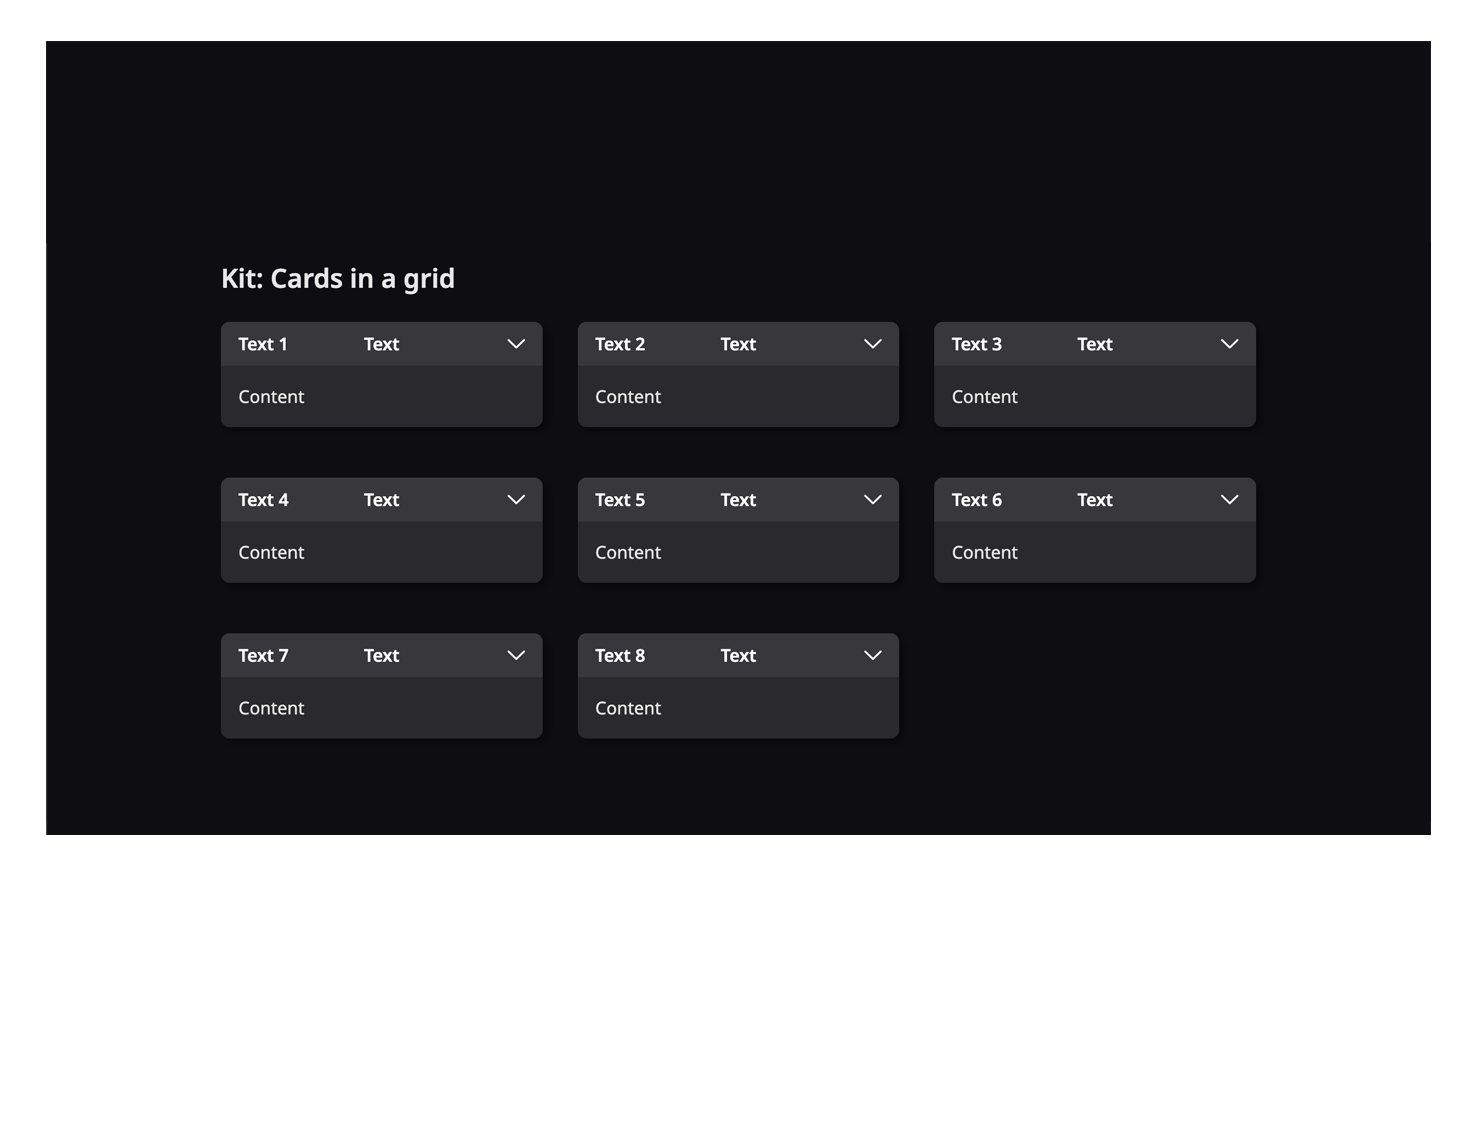
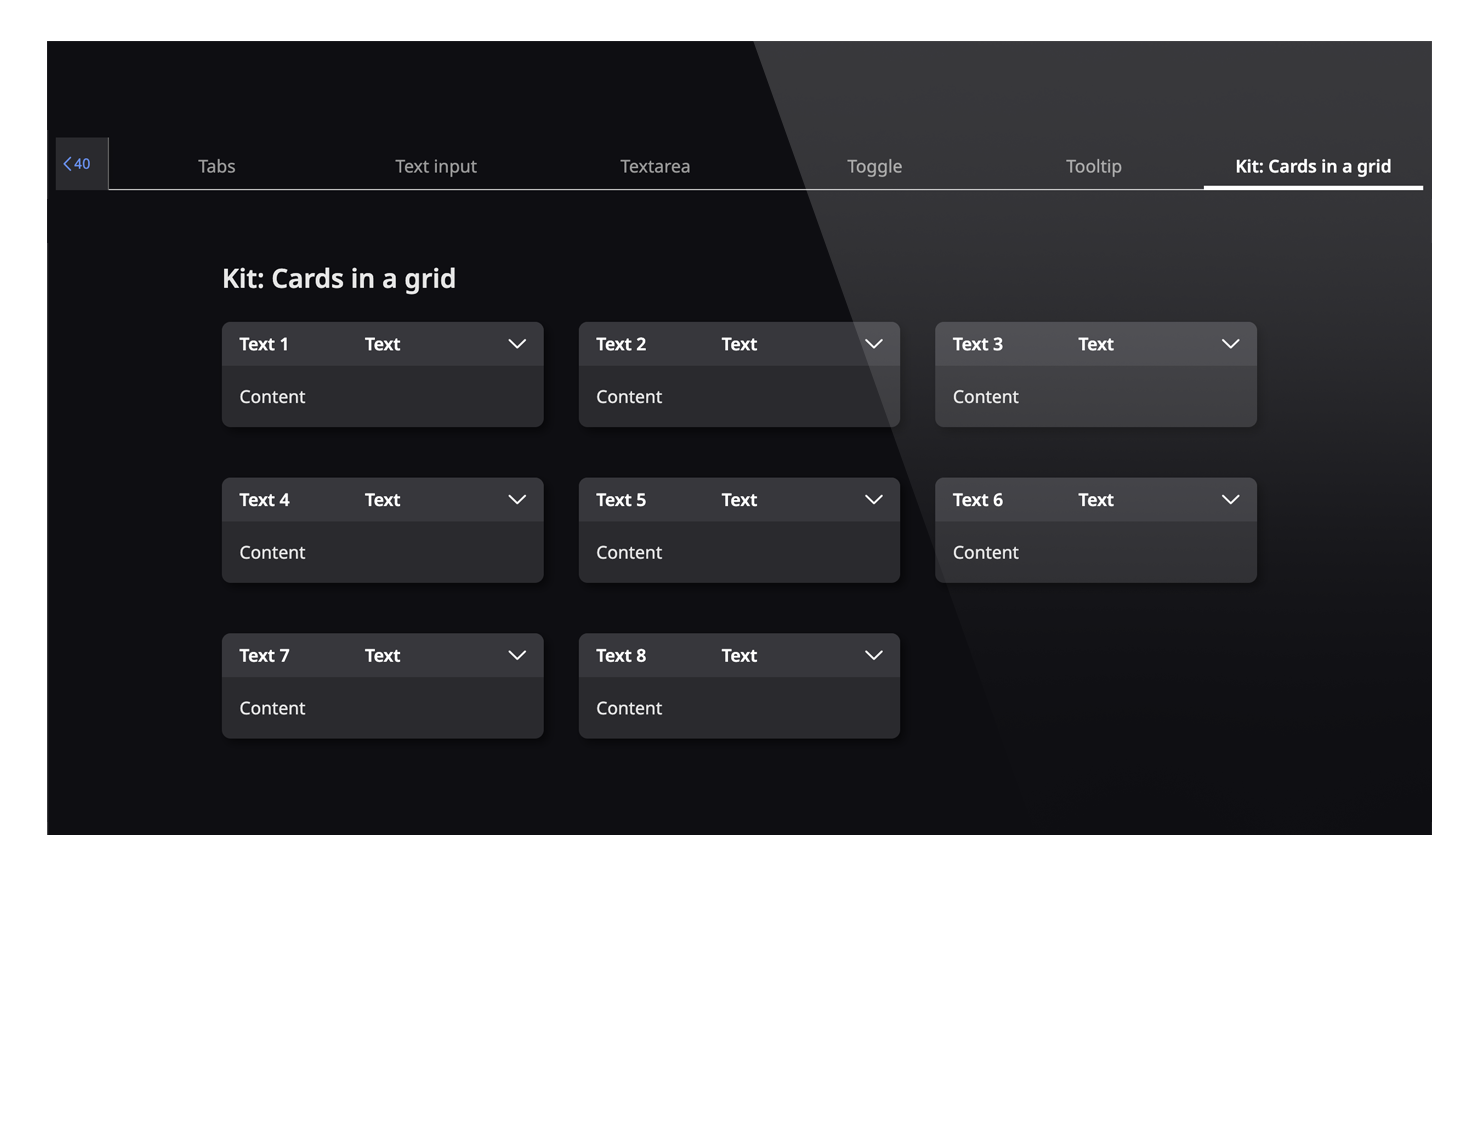
united cs bug fixes

diff --git a/src/views/Portfolio/UnitedCaseStudy/images.ts b/src/views/Portfolio/UnitedCaseStudy/images.ts
@@ -126,7 +126,7 @@ export const unitedImages = {
       frameSrc: dataVisualizationSource("screen.png"),
       frameClip:
         "inset(calc(178 / 1138 * 100%) calc(43 / 1469 * 100%) calc(318 / 1138 * 100%) calc(43 / 1469 * 100%))",
-      label: "Blue palette",
+      label: "Blue",
       caption: "Palette examples, bar, pie, donut, and gauge charts.",
       alt: "Orion dark-theme data visualization demonstration with a blue bar and line palette example, grouped bar chart, pie, donut, and gauge",
       width: 1469,
@@ -139,7 +139,7 @@ export const unitedImages = {
       frameSrc: dataVisualizationSource("screen.png"),
       frameClip:
         "inset(calc(178 / 1138 * 100%) calc(43 / 1469 * 100%) calc(318 / 1138 * 100%) calc(43 / 1469 * 100%))",
-      label: "Red–green palette",
+      label: "Red–green",
       caption: "Palette examples, bar, pie, donut, and gauge charts.",
       alt: "Orion dark-theme data visualization demonstration with a red–green bar and line palette example, grouped bar chart, pie, donut, and gauge",
       width: 1469,
@@ -152,7 +152,7 @@ export const unitedImages = {
       frameSrc: dataVisualizationSource("screen.png"),
       frameClip:
         "inset(calc(178 / 1138 * 100%) calc(43 / 1469 * 100%) calc(318 / 1138 * 100%) calc(43 / 1469 * 100%))",
-      label: "Purple palette",
+      label: "Purple",
       caption: "Palette examples, bar, pie, donut, and gauge charts.",
       alt: "Orion dark-theme data visualization demonstration with a purple bar and line palette example, grouped bar chart, pie, donut, and gauge",
       width: 1469,
